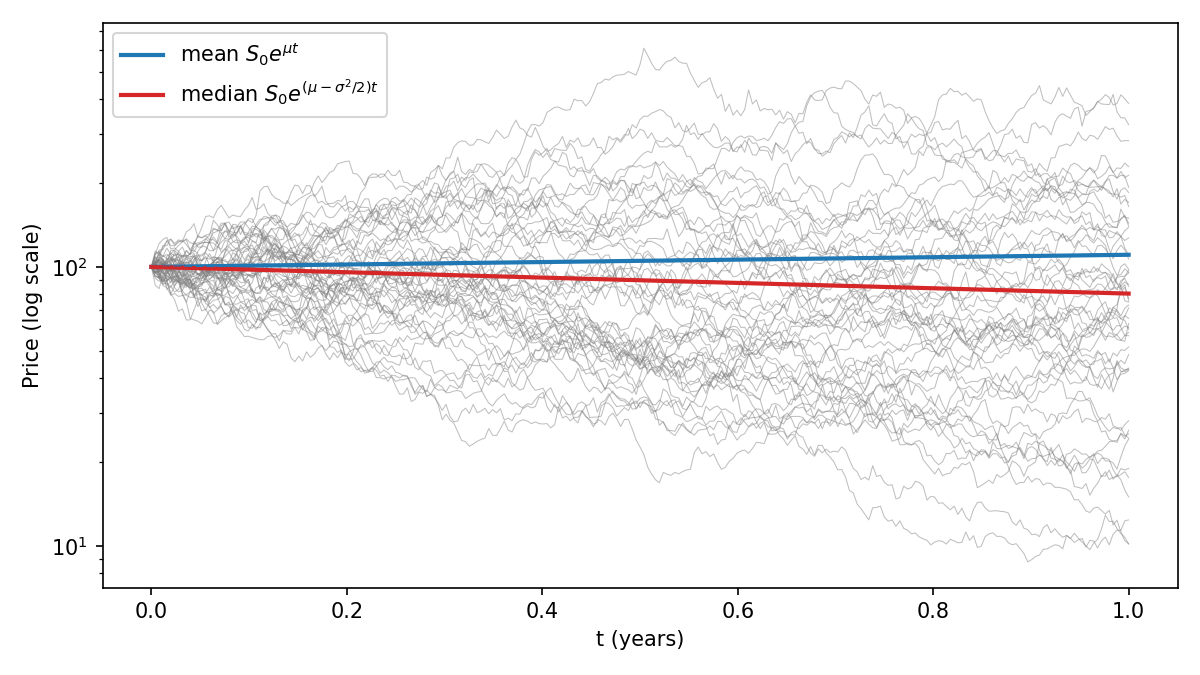
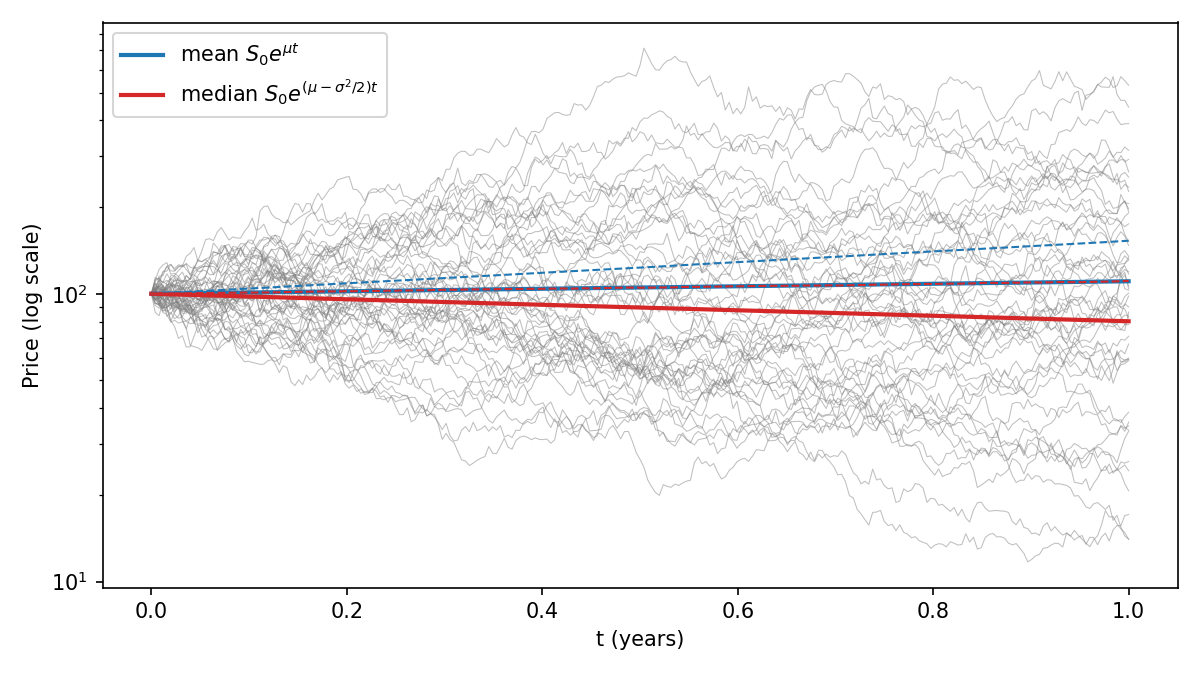
Add strong convergence comparison of Euler-Maruyama and Milstein

diff --git a/src/strong_convergence.py b/src/strong_convergence.py
@@ -1,0 +1,88 @@
+# strong_convergence.py
+# Part 3 
+# Compares two ways of simulating GBM, dS = mu S dt + sigma S dW:
+#   Euler Maruyama: S_{n+1} = S_n + mu S_n dt + sigma S_n dW
+#   Milstein:       same + 0.5 sigma^2 S_n (dW^2 - dt)
+# and measures their STRONG error (how far each simulated path ends from the exact path)
+# as the step size dt shrinks.
+# Theory: strong order 0.5 for Euler-Maruyama and 1 for Milstein.
+
+import numpy as np
+import matplotlib.pyplot as plt
+
+rng = np.random.default_rng(42)
+
+S0, mu, sigma, T = 100.0, 0.10, 0.80, 1.0
+n_paths = 10_000
+
+
+def euler_maruyama(S0, mu, sigma, dt, dW):
+    # dW has one row per path and one column per time step
+    S = np.full(dW.shape[0], S0)
+    for k in range(dW.shape[1]):          # loop over TIME (each step needs the previous one)
+        S = S + mu * S * dt + sigma * S * dW[:, k]
+    return S                              # price at time T on every path
+
+
+def milstein(S0, mu, sigma, dt, dW):
+    S = np.full(dW.shape[0], S0)
+    for k in range(dW.shape[1]):
+        S = (S + mu * S * dt + sigma * S * dW[:, k]
+             + 0.5 * sigma**2 * S * (dW[:, k]**2 - dt))   # the Milstein correction
+    return S
+
+
+# ---------- one fine Brownian path per sample ----------
+# NOTE: this is the key trick. I simulate the finest grid ONCE, and build every
+# coarser grid by adding up neighbouring fine increments. So every step size
+# sees exactly the same Brownian path, and only dt changes.
+n_fine = 2**10                            # 1024 steps
+dt_fine = T / n_fine
+dW_fine = np.sqrt(dt_fine) * rng.standard_normal((n_paths, n_fine))
+
+# exact solution at T only needs W_T, the sum of all the increments
+W_T = dW_fine.sum(axis=1)
+S_exact = S0 * np.exp((mu - 0.5 * sigma**2) * T + sigma * W_T)
+
+step_counts = [2**k for k in range(3, 10)]    # 8, 16, ..., 512 steps
+dts, err_em, err_mil = [], [], []
+
+for n in step_counts:
+    dt = T / n
+    group = n_fine // n                   # how many fine steps make one coarse step
+    # reshape each row into n blocks of `group` fine steps, then add up each block
+    dW = dW_fine.reshape(n_paths, n, group).sum(axis=2)
+
+    S_em = euler_maruyama(S0, mu, sigma, dt, dW)
+    S_mil = milstein(S0, mu, sigma, dt, dW)
+
+    # strong error: average distance between the simulated and exact endpoint
+    dts.append(dt)
+    err_em.append(np.mean(np.abs(S_em - S_exact)))
+    err_mil.append(np.mean(np.abs(S_mil - S_exact)))
+
+dts, err_em, err_mil = map(np.array, (dts, err_em, err_mil))
+
+# convergence order = slope on a log-log plot
+slope_em = np.polyfit(np.log(dts), np.log(err_em), 1)[0]
+slope_mil = np.polyfit(np.log(dts), np.log(err_mil), 1)[0]
+
+# ---------- figure ----------
+fig, ax = plt.subplots(figsize=(6.5, 4.5))
+ax.loglog(dts, err_em, "o-", label=f"Euler-Maruyama (slope {slope_em:.2f})")
+ax.loglog(dts, err_mil, "s-", label=f"Milstein (slope {slope_mil:.2f})")
+# reference lines with slope 0.5 and 1, anchored at the coarsest point
+ax.loglog(dts, err_em[0] * (dts / dts[0])**0.5, "k:", lw=1, label="slope 0.5")
+ax.loglog(dts, err_mil[0] * (dts / dts[0])**1.0, "k--", lw=1, label="slope 1")
+ax.set_xlabel(r"$\Delta t$")
+ax.set_ylabel(r"Strong error $E|S_T^{\mathrm{scheme}} - S_T^{\mathrm{exact}}|$")
+ax.legend()
+fig.tight_layout()
+fig.savefig("figures/strong_convergence.png", dpi=150)
+
+# ---------- table ----------
+print(f"{'steps':>6} {'dt':>9} {'Euler-M error':>14} {'Milstein error':>15}")
+for n, dt, e1, e2 in zip(step_counts, dts, err_em, err_mil):
+    print(f"{n:>6} {dt:>9.5f} {e1:>14.4f} {e2:>15.4f}")
+print(f"\nestimated strong order: Euler-Maruyama {slope_em:.2f} (theory 0.5), "
+      f"Milstein {slope_mil:.2f} (theory 1)")
